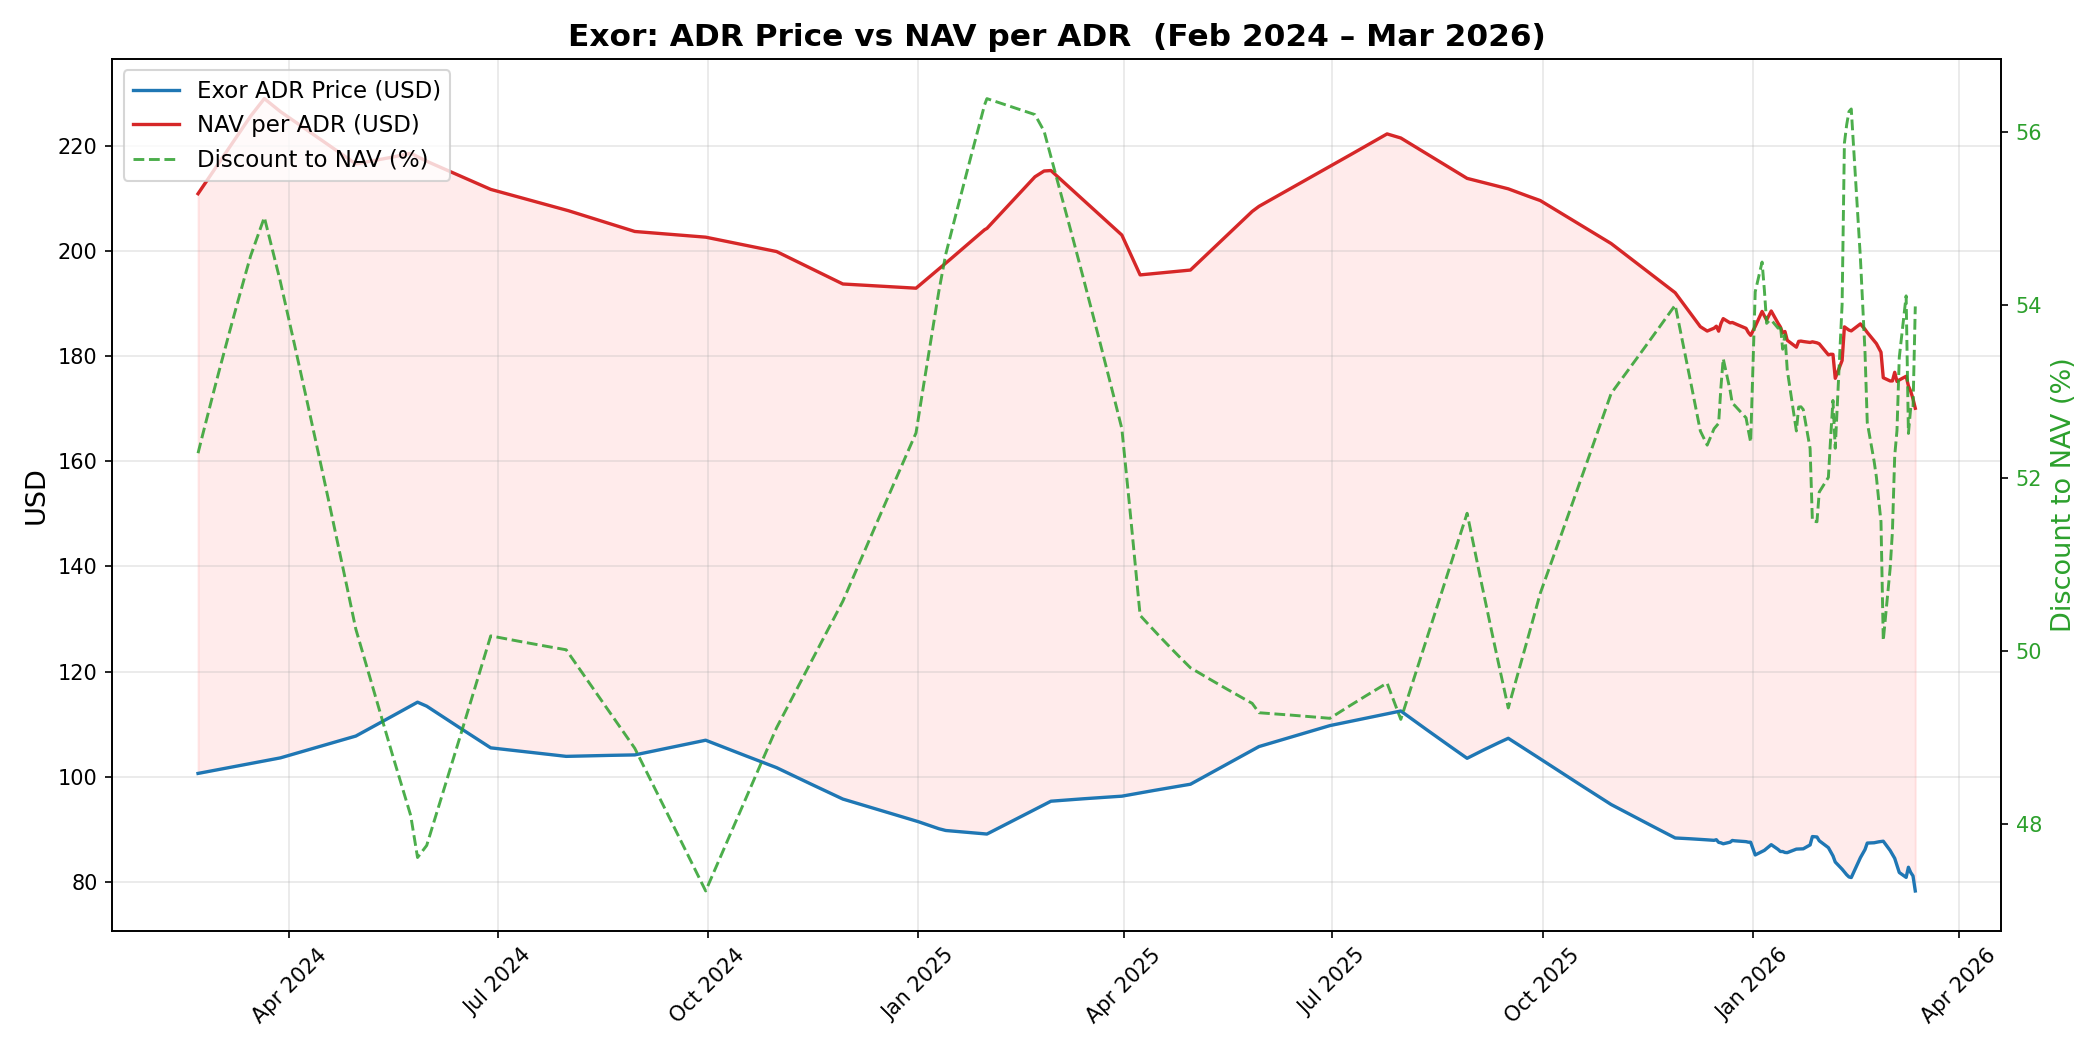
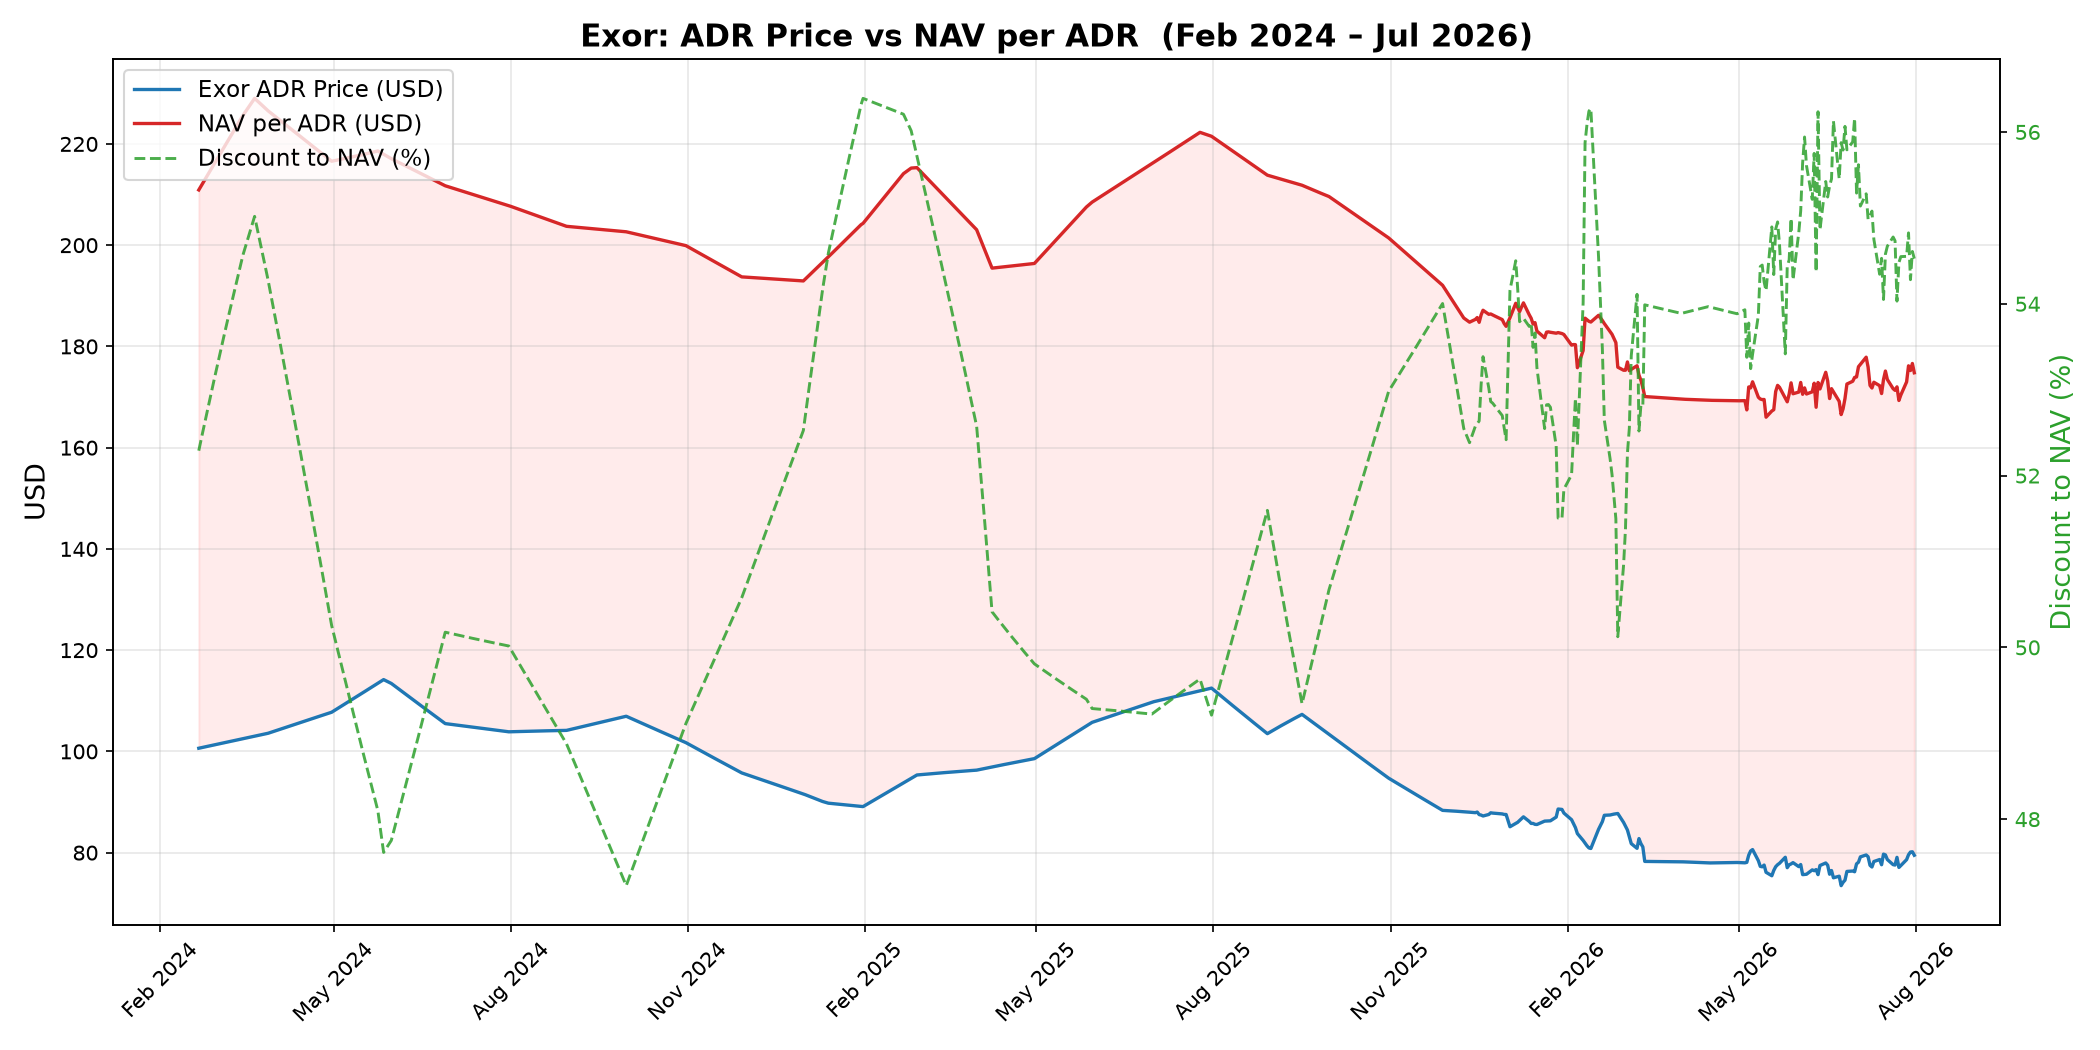
Refresh charts with IBKR daily data through Jul 31, 2026
RACE, STLA, PHG, CNH, EXO.AS, EUR/USD sourced from IBKR price
history (May–Jul 2026). IVG.MI and JUVE.MI estimated from web
(IBKR Milan permissions unavailable). 3-month window now covers
May–Jul 2026.

Claude-Session: https://claude.ai/code/session_011nmT8G6RcPr3Kt8iyNHA7R

diff --git a/exor_holdings_chart.py b/exor_holdings_chart.py
@@ -129,6 +129,23 @@ else:
         ("2026-03-10", 340.0), ("2026-03-11", 337.0),
         ("2026-03-12", 334.55),  # confirmed
         ("2026-03-13", 331.86),  # confirmed
+        # Bridge (Apr 2026, estimated)
+        ("2026-04-01", 333.00), ("2026-04-15", 335.00), ("2026-04-30", 337.00),
+        # IBKR daily data May–Jul 2026
+        ("2026-05-04", 338.91), ("2026-05-05", 325.44), ("2026-05-06", 336.25), ("2026-05-07", 337.46), ("2026-05-08", 339.69),
+        ("2026-05-11", 329.26), ("2026-05-12", 329.26), ("2026-05-13", 333.09), ("2026-05-14", 332.21), ("2026-05-15", 321.20),
+        ("2026-05-18", 324.77), ("2026-05-19", 329.66), ("2026-05-20", 341.81), ("2026-05-21", 349.39), ("2026-05-22", 348.24),
+        ("2026-05-26", 329.91), ("2026-05-27", 333.22), ("2026-05-28", 346.35), ("2026-05-29", 340.23),
+        ("2026-06-01", 349.24), ("2026-06-02", 353.81), ("2026-06-03", 344.40), ("2026-06-04", 349.92), ("2026-06-05", 346.99),
+        ("2026-06-08", 351.57), ("2026-06-09", 357.52), ("2026-06-10", 346.56), ("2026-06-11", 365.62), ("2026-06-12", 354.91),
+        ("2026-06-15", 369.06), ("2026-06-16", 366.13), ("2026-06-17", 354.28), ("2026-06-18", 362.13),
+        ("2026-06-22", 348.42), ("2026-06-23", 344.87), ("2026-06-24", 348.75), ("2026-06-25", 352.20), ("2026-06-26", 368.34),
+        ("2026-06-29", 368.34), ("2026-06-30", 372.29),
+        ("2026-07-01", 374.66), ("2026-07-02", 384.97),
+        ("2026-07-06", 391.86), ("2026-07-07", 386.99), ("2026-07-08", 375.03), ("2026-07-09", 374.67), ("2026-07-10", 376.64),
+        ("2026-07-13", 372.98), ("2026-07-14", 369.16), ("2026-07-15", 375.74), ("2026-07-16", 382.58), ("2026-07-17", 376.83),
+        ("2026-07-20", 371.52), ("2026-07-21", 369.97), ("2026-07-22", 371.61), ("2026-07-23", 359.44), ("2026-07-24", 360.14),
+        ("2026-07-27", 380.01), ("2026-07-28", 390.14), ("2026-07-29", 385.69), ("2026-07-30", 397.73), ("2026-07-31", 390.86),
     ]
 
     # ── STLA (Stellantis) — NYSE, USD ───────────────────────────────────
@@ -170,6 +187,23 @@ else:
         ("2026-03-10", 6.90),   # confirmed
         ("2026-03-11", 6.85), ("2026-03-12", 6.80),
         ("2026-03-13", 6.50),   # confirmed – new 52-week low
+        # Bridge (Apr 2026, estimated)
+        ("2026-04-01", 6.60), ("2026-04-15", 6.80), ("2026-04-30", 7.00),
+        # IBKR daily data May–Jul 2026
+        ("2026-05-04", 7.08), ("2026-05-05", 7.20), ("2026-05-06", 7.66), ("2026-05-07", 7.48), ("2026-05-08", 7.74),
+        ("2026-05-11", 7.46), ("2026-05-12", 7.40), ("2026-05-13", 7.60), ("2026-05-14", 7.84), ("2026-05-15", 7.49),
+        ("2026-05-18", 7.41), ("2026-05-19", 7.35), ("2026-05-20", 7.53), ("2026-05-21", 7.56), ("2026-05-22", 7.61),
+        ("2026-05-26", 7.81), ("2026-05-27", 8.16), ("2026-05-28", 8.20), ("2026-05-29", 7.98),
+        ("2026-06-01", 7.82), ("2026-06-02", 7.68), ("2026-06-03", 7.35), ("2026-06-04", 7.39), ("2026-06-05", 7.11),
+        ("2026-06-08", 7.08), ("2026-06-09", 7.04), ("2026-06-10", 6.57), ("2026-06-11", 6.89), ("2026-06-12", 6.87),
+        ("2026-06-15", 7.04), ("2026-06-16", 6.64), ("2026-06-17", 6.47), ("2026-06-18", 6.34),
+        ("2026-06-22", 6.38), ("2026-06-23", 5.96), ("2026-06-24", 5.84), ("2026-06-25", 5.74), ("2026-06-26", 5.68),
+        ("2026-06-29", 5.57), ("2026-06-30", 5.74),
+        ("2026-07-01", 5.81), ("2026-07-02", 5.81),
+        ("2026-07-06", 5.80), ("2026-07-07", 5.65), ("2026-07-08", 5.40), ("2026-07-09", 5.33), ("2026-07-10", 5.50),
+        ("2026-07-13", 5.57), ("2026-07-14", 5.69), ("2026-07-15", 5.90), ("2026-07-16", 5.96), ("2026-07-17", 5.79),
+        ("2026-07-20", 5.75), ("2026-07-21", 5.78), ("2026-07-22", 5.80), ("2026-07-23", 5.75), ("2026-07-24", 5.69),
+        ("2026-07-27", 5.70), ("2026-07-28", 5.76), ("2026-07-29", 6.01), ("2026-07-30", 5.86), ("2026-07-31", 5.82),
     ]
 
     # ── PHG (Philips) — NYSE, USD ───────────────────────────────────────
@@ -206,6 +240,23 @@ else:
         ("2026-03-11", 28.81),  # confirmed
         ("2026-03-12", 28.30),
         ("2026-03-13", 27.79),  # confirmed
+        # Bridge (Apr 2026, estimated)
+        ("2026-04-01", 27.50), ("2026-04-15", 27.00), ("2026-04-30", 26.50),
+        # IBKR daily data May–Jul 2026
+        ("2026-05-04", 26.24), ("2026-05-05", 26.45), ("2026-05-06", 27.23), ("2026-05-07", 27.16), ("2026-05-08", 27.21),
+        ("2026-05-11", 26.73), ("2026-05-12", 27.01), ("2026-05-13", 25.63), ("2026-05-14", 25.50), ("2026-05-15", 25.23),
+        ("2026-05-18", 26.05), ("2026-05-19", 26.05), ("2026-05-20", 26.74), ("2026-05-21", 27.15), ("2026-05-22", 26.95),
+        ("2026-05-26", 26.94), ("2026-05-27", 26.60), ("2026-05-28", 26.45), ("2026-05-29", 26.39),
+        ("2026-06-01", 26.08), ("2026-06-02", 25.43), ("2026-06-03", 25.35), ("2026-06-04", 25.99), ("2026-06-05", 26.11),
+        ("2026-06-08", 25.82), ("2026-06-09", 26.50), ("2026-06-10", 25.67), ("2026-06-11", 26.11), ("2026-06-12", 26.46),
+        ("2026-06-15", 26.69), ("2026-06-16", 26.80), ("2026-06-17", 26.24), ("2026-06-18", 26.78),
+        ("2026-06-22", 26.98), ("2026-06-23", 26.61), ("2026-06-24", 26.73), ("2026-06-25", 27.29), ("2026-06-26", 27.10),
+        ("2026-06-29", 27.21), ("2026-06-30", 27.19),
+        ("2026-07-01", 27.20), ("2026-07-02", 27.74),
+        ("2026-07-06", 28.16), ("2026-07-07", 28.23), ("2026-07-08", 27.58), ("2026-07-09", 27.26), ("2026-07-10", 27.40),
+        ("2026-07-13", 27.34), ("2026-07-14", 26.06), ("2026-07-15", 27.02), ("2026-07-16", 27.29), ("2026-07-17", 26.95),
+        ("2026-07-20", 26.75), ("2026-07-21", 26.58), ("2026-07-22", 26.27), ("2026-07-23", 26.03), ("2026-07-24", 26.17),
+        ("2026-07-27", 25.02), ("2026-07-28", 25.55), ("2026-07-29", 26.10), ("2026-07-30", 26.44), ("2026-07-31", 26.03),
     ]
 
     # ── CNH (CNH Industrial) — NYSE, USD ────────────────────────────────
@@ -238,6 +289,23 @@ else:
         ("2026-03-11", 10.92),  # confirmed
         ("2026-03-12", 10.75),
         ("2026-03-13", 10.65),  # confirmed
+        # Bridge (Apr 2026, estimated)
+        ("2026-04-01", 10.50), ("2026-04-15", 10.40), ("2026-04-30", 10.30),
+        # IBKR daily data May–Jul 2026
+        ("2026-05-04", 10.22), ("2026-05-05", 10.32), ("2026-05-06", 10.82), ("2026-05-07", 10.84), ("2026-05-08", 10.96),
+        ("2026-05-11", 10.97), ("2026-05-12", 10.74), ("2026-05-13", 10.76), ("2026-05-14", 10.67), ("2026-05-15", 10.43),
+        ("2026-05-18", 10.50), ("2026-05-19", 10.23), ("2026-05-20", 10.46), ("2026-05-21", 10.15), ("2026-05-22", 10.11),
+        ("2026-05-26", 10.25), ("2026-05-27", 10.52), ("2026-05-28", 10.46), ("2026-05-29", 10.21),
+        ("2026-06-01", 9.85), ("2026-06-02", 10.95), ("2026-06-03", 11.04), ("2026-06-04", 10.85), ("2026-06-05", 10.75),
+        ("2026-06-08", 10.68), ("2026-06-09", 10.74), ("2026-06-10", 10.18), ("2026-06-11", 10.36), ("2026-06-12", 10.60),
+        ("2026-06-15", 10.67), ("2026-06-16", 10.51), ("2026-06-17", 10.28), ("2026-06-18", 10.46),
+        ("2026-06-22", 10.38), ("2026-06-23", 9.99), ("2026-06-24", 10.31), ("2026-06-25", 10.93), ("2026-06-26", 11.03),
+        ("2026-06-29", 11.39), ("2026-06-30", 11.23),
+        ("2026-07-01", 10.92), ("2026-07-02", 10.72),
+        ("2026-07-06", 10.87), ("2026-07-07", 10.43), ("2026-07-08", 10.27), ("2026-07-09", 10.28), ("2026-07-10", 10.45),
+        ("2026-07-13", 10.42), ("2026-07-14", 10.42), ("2026-07-15", 10.57), ("2026-07-16", 10.60), ("2026-07-17", 10.64),
+        ("2026-07-20", 10.33), ("2026-07-21", 10.35), ("2026-07-22", 10.70), ("2026-07-23", 10.62), ("2026-07-24", 11.15),
+        ("2026-07-27", 11.08), ("2026-07-28", 11.44), ("2026-07-29", 10.76), ("2026-07-30", 10.32), ("2026-07-31", 10.24),
     ]
 
     # ── IVG.MI (Iveco Group) — Milan, EUR ───────────────────────────────
@@ -270,6 +338,14 @@ else:
         ("2026-03-09", 18.985), # confirmed (prev close 19.030)
         ("2026-03-10", 19.00), ("2026-03-11", 19.02),
         ("2026-03-12", 19.00), ("2026-03-13", 19.00),
+        # Apr–Jul 2026 (estimated from web – no IBKR permissions for BVME)
+        ("2026-04-01", 18.00), ("2026-04-15", 17.00), ("2026-04-30", 16.20),
+        ("2026-05-04", 15.90), ("2026-05-11", 15.50), ("2026-05-18", 15.00),
+        ("2026-05-25", 14.30), ("2026-05-29", 13.93),
+        ("2026-06-01", 13.90), ("2026-06-08", 14.10), ("2026-06-15", 14.00),
+        ("2026-06-22", 13.85), ("2026-06-29", 14.00),
+        ("2026-07-06", 14.10), ("2026-07-10", 13.96), ("2026-07-14", 13.80),
+        ("2026-07-21", 13.73), ("2026-07-28", 13.90), ("2026-07-31", 13.94),
     ]
 
     # ── JUVE.MI (Juventus FC) — Milan, EUR ──────────────────────────────
@@ -300,6 +376,14 @@ else:
         ("2026-03-02", 2.30), ("2026-03-04", 2.30), ("2026-03-06", 2.30),
         ("2026-03-09", 2.30), ("2026-03-10", 2.30), ("2026-03-11", 2.30),
         ("2026-03-12", 2.30), ("2026-03-13", 2.30),
+        # Apr–Jul 2026 (estimated from web – no IBKR permissions for BVME)
+        ("2026-04-01", 2.28), ("2026-04-15", 2.25), ("2026-04-30", 2.22),
+        ("2026-05-04", 2.20), ("2026-05-11", 2.18), ("2026-05-18", 2.16),
+        ("2026-05-25", 2.14), ("2026-05-29", 2.12),
+        ("2026-06-01", 2.10), ("2026-06-08", 2.08), ("2026-06-15", 2.06),
+        ("2026-06-22", 2.04), ("2026-06-29", 2.03),
+        ("2026-07-06", 2.02), ("2026-07-13", 2.00), ("2026-07-21", 2.02),
+        ("2026-07-28", 2.05), ("2026-07-31", 2.07),
     ]
 
     # ── EXO.AS (Exor N.V.) — Amsterdam Euronext, EUR ────────────────────
@@ -336,6 +420,24 @@ else:
         ("2026-03-11", 70.50),
         ("2026-03-12", 70.55),  # confirmed (prev close 69.72)
         ("2026-03-13", 68.20),  # confirmed
+        # Bridge (Apr 2026, estimated)
+        ("2026-04-01", 68.00), ("2026-04-15", 67.50), ("2026-04-30", 67.00),
+        # IBKR daily data May–Jul 2026 (AEB, EUR)
+        ("2026-05-04", 66.70), ("2026-05-05", 66.46), ("2026-05-06", 67.80), ("2026-05-07", 68.16), ("2026-05-08", 68.46),
+        ("2026-05-11", 66.80), ("2026-05-12", 66.00), ("2026-05-13", 66.16), ("2026-05-14", 66.70), ("2026-05-15", 65.50),
+        ("2026-05-18", 65.00), ("2026-05-19", 65.80), ("2026-05-20", 66.46), ("2026-05-21", 66.90), ("2026-05-22", 67.10),
+        ("2026-05-25", 68.00), ("2026-05-26", 66.26), ("2026-05-27", 66.60), ("2026-05-28", 66.70), ("2026-05-29", 66.96),
+        ("2026-06-01", 66.40), ("2026-06-02", 66.96), ("2026-06-03", 65.16), ("2026-06-04", 65.70), ("2026-06-05", 65.70),
+        ("2026-06-08", 66.36), ("2026-06-09", 66.26), ("2026-06-10", 66.20), ("2026-06-11", 65.40), ("2026-06-12", 66.90),
+        ("2026-06-15", 67.16), ("2026-06-16", 67.40), ("2026-06-17", 66.10), ("2026-06-18", 66.66),
+        ("2026-06-19", 65.54), ("2026-06-22", 66.20), ("2026-06-23", 64.70), ("2026-06-24", 65.20), ("2026-06-25", 65.50),
+        ("2026-06-26", 66.96), ("2026-06-29", 66.86), ("2026-06-30", 67.00),
+        ("2026-07-01", 68.04), ("2026-07-02", 68.30),
+        ("2026-07-03", 69.26), ("2026-07-06", 69.70), ("2026-07-07", 69.36), ("2026-07-08", 67.80), ("2026-07-09", 67.60),
+        ("2026-07-10", 68.54), ("2026-07-13", 68.86), ("2026-07-14", 67.70), ("2026-07-15", 69.66), ("2026-07-16", 69.54),
+        ("2026-07-17", 68.80), ("2026-07-20", 68.10), ("2026-07-21", 67.96), ("2026-07-22", 69.50), ("2026-07-23", 67.80),
+        ("2026-07-24", 68.10), ("2026-07-27", 69.04), ("2026-07-28", 69.40), ("2026-07-29", 69.50), ("2026-07-30", 69.70),
+        ("2026-07-31", 69.10),
     ]
 
     # ── EUR/USD exchange rate ───────────────────────────────────────────
@@ -388,6 +490,23 @@ else:
         ("2026-03-10", 1.1659),  # confirmed – week high
         ("2026-03-11", 1.160), ("2026-03-12", 1.150),
         ("2026-03-13", 1.1476),  # confirmed ECB – 2026 low
+        # Bridge (Apr 2026, estimated)
+        ("2026-04-01", 1.150), ("2026-04-15", 1.155), ("2026-04-30", 1.165),
+        # IBKR daily data May–Jul 2026 (IDEALPRO midpoint)
+        ("2026-05-04", 1.1693), ("2026-05-05", 1.17478), ("2026-05-06", 1.17258), ("2026-05-07", 1.17858),
+        ("2026-05-11", 1.17383), ("2026-05-12", 1.17103), ("2026-05-13", 1.16695), ("2026-05-14", 1.16263),
+        ("2026-05-18", 1.16055), ("2026-05-19", 1.16230), ("2026-05-20", 1.16190), ("2026-05-21", 1.16023),
+        ("2026-05-25", 1.16308), ("2026-05-26", 1.16260), ("2026-05-27", 1.16513), ("2026-05-28", 1.16598),
+        ("2026-06-01", 1.16318), ("2026-06-02", 1.15975), ("2026-06-03", 1.16105), ("2026-06-04", 1.15218),
+        ("2026-06-08", 1.15425), ("2026-06-09", 1.15353), ("2026-06-10", 1.15783), ("2026-06-11", 1.15685),
+        ("2026-06-15", 1.16083), ("2026-06-16", 1.15013), ("2026-06-17", 1.14580), ("2026-06-18", 1.14710),
+        ("2026-06-22", 1.13815), ("2026-06-23", 1.13575), ("2026-06-24", 1.13700), ("2026-06-25", 1.13838),
+        ("2026-06-29", 1.14223), ("2026-06-30", 1.13773),
+        ("2026-07-01", 1.14320), ("2026-07-02", 1.14358),
+        ("2026-07-06", 1.14123), ("2026-07-07", 1.14170), ("2026-07-08", 1.14300), ("2026-07-09", 1.14153),
+        ("2026-07-13", 1.14203), ("2026-07-14", 1.14643), ("2026-07-15", 1.14418), ("2026-07-16", 1.14395),
+        ("2026-07-20", 1.13988), ("2026-07-21", 1.14118), ("2026-07-22", 1.13773), ("2026-07-23", 1.13683),
+        ("2026-07-27", 1.13878), ("2026-07-28", 1.14675), ("2026-07-29", 1.15275), ("2026-07-30", 1.15028),
     ]
 
     # ── Build daily-interpolated series ──────────────────────────────────
@@ -401,7 +520,7 @@ else:
     eurusd = _monthly_to_daily(eurusd_data)
 
     # Align all series to a common date index (business days only)
-    idx = pd.bdate_range(start="2024-02-21", end="2026-03-13")
+    idx = pd.bdate_range(start="2024-02-21", end="2026-07-31")
     race   = race.reindex(idx).interpolate()
     stla   = stla.reindex(idx).interpolate()
     phg    = phg.reindex(idx).interpolate()
@@ -466,7 +585,7 @@ ax1.fill_between(df.index, df["Exor ADR Price"], df["NAV per ADR"],
                  alpha=0.08, color="red")
 
 ax1.set_ylabel("USD", fontsize=13)
-ax1.set_title("Exor: ADR Price vs NAV per ADR  (Feb 2024 \u2013 Mar 2026)",
+ax1.set_title("Exor: ADR Price vs NAV per ADR  (Feb 2024 \u2013 Jul 2026)",
               fontsize=15, fontweight="bold")
 ax1.grid(True, alpha=0.3)
 ax1.xaxis.set_major_formatter(mdates.DateFormatter("%b %Y"))
@@ -512,7 +631,7 @@ ax1w.fill_between(df_weekly.index, df_weekly["Exor ADR Price"], df_weekly["NAV p
                   alpha=0.08, color="red")
 
 ax1w.set_ylabel("USD", fontsize=13)
-ax1w.set_title("Exor: ADR Price vs NAV per ADR \u2014 Weekly  (Mar 2025 \u2013 Mar 2026)",
+ax1w.set_title("Exor: ADR Price vs NAV per ADR \u2014 Weekly  (Jul 2025 \u2013 Jul 2026)",
                fontsize=15, fontweight="bold")
 ax1w.grid(True, alpha=0.3)
 ax1w.xaxis.set_major_formatter(mdates.DateFormatter("%b %Y"))
@@ -556,7 +675,7 @@ ax1d.fill_between(df_3m.index, df_3m["Exor ADR Price"], df_3m["NAV per ADR"],
                   alpha=0.08, color="red")
 
 ax1d.set_ylabel("USD", fontsize=13)
-ax1d.set_title("Exor: ADR Price vs NAV per ADR \u2014 Daily  (Dec 2025 \u2013 Mar 2026)",
+ax1d.set_title("Exor: ADR Price vs NAV per ADR \u2014 Daily  (May \u2013 Jul 2026)",
                fontsize=15, fontweight="bold")
 ax1d.grid(True, alpha=0.3)
 ax1d.xaxis.set_major_formatter(mdates.DateFormatter("%d %b"))
